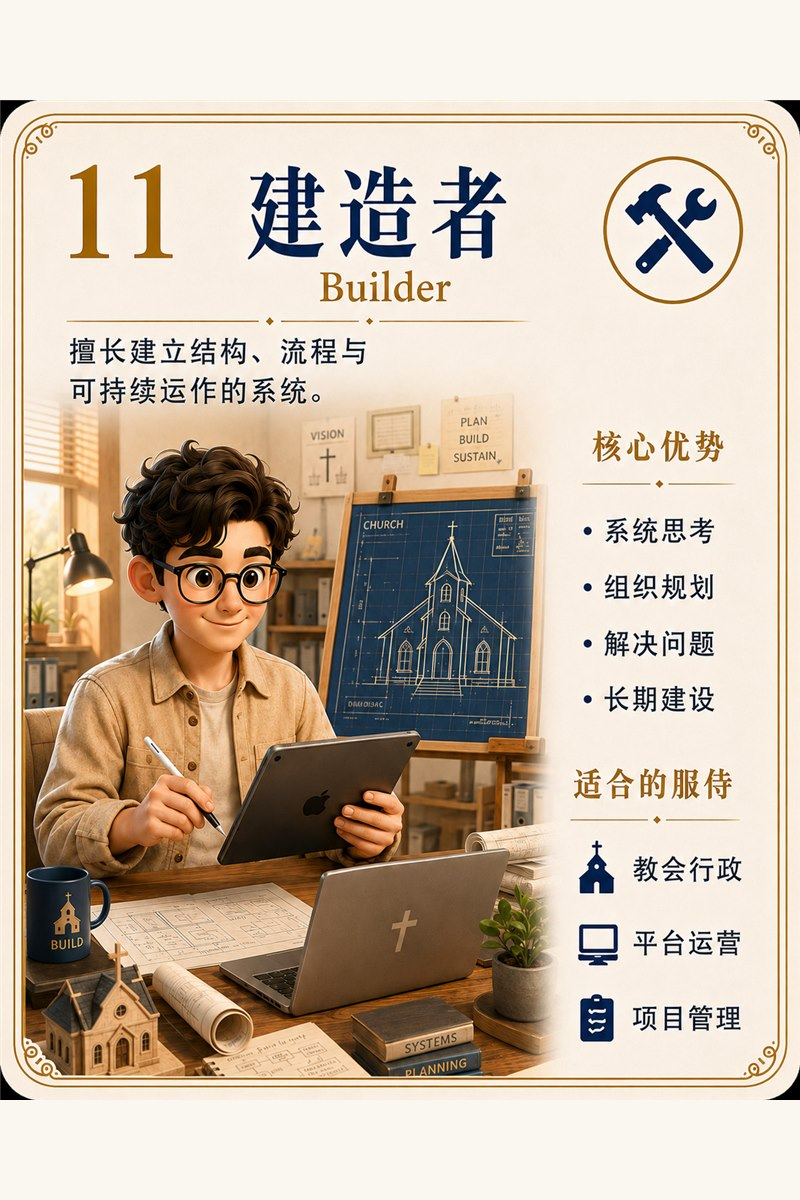
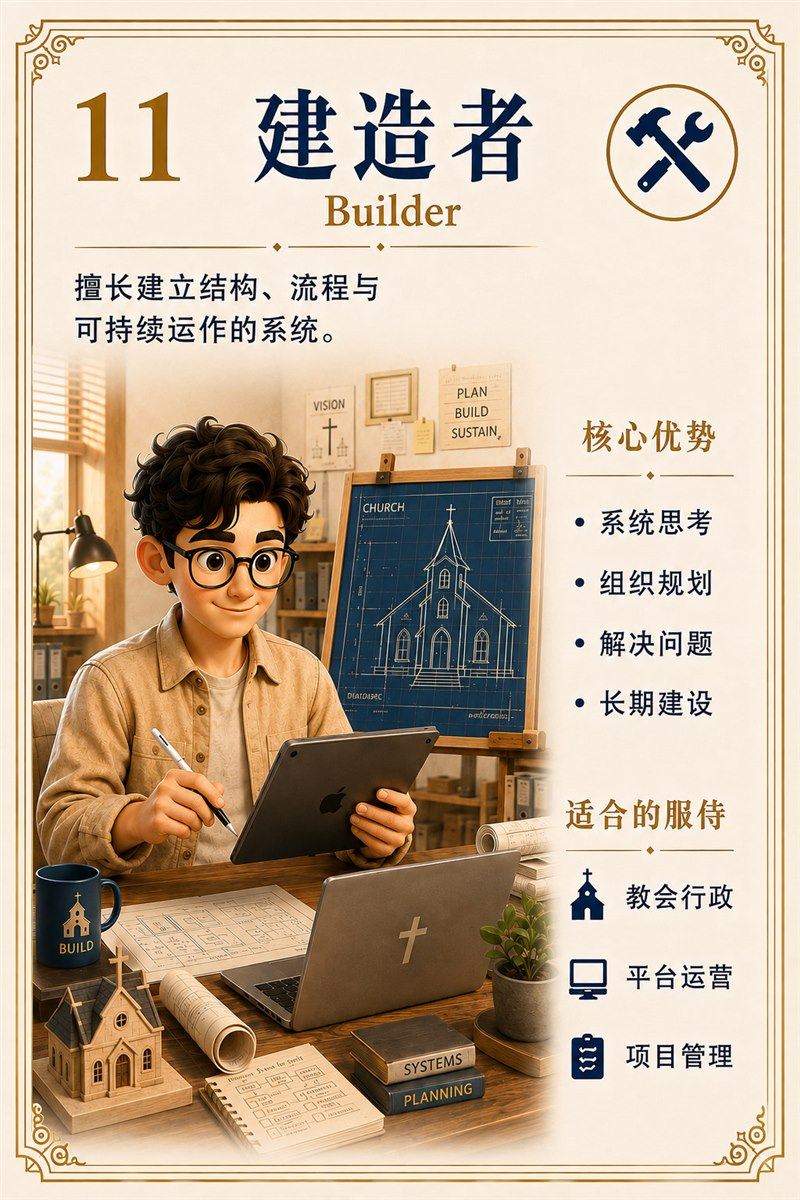
archetypes 10/11/12 换为 2:3 版本（与 App 同步）

diff --git a/index.html b/index.html
@@ -83,9 +83,9 @@
 })();
 </script>
 <script>(function(){var l=document.createElement("link");l.rel="preload";l.as="image";l.href="assets/img/hero-"+(document.documentElement.dataset.theme==="night"?"night":"day")+".webp";document.head.appendChild(l);})();</script>
-<script src="assets/js/supabase-config.js?v=202608311541"></script>
+<script src="assets/js/supabase-config.js?v=202608311556"></script>
 <link rel="preconnect" href="https://fonts.googleapis.com"><link rel="preconnect" href="https://fonts.gstatic.com" crossorigin><link href="https://fonts.googleapis.com/css2?family=Noto+Serif+SC:wght@600;700;900&display=swap" rel="stylesheet">
-<link rel="stylesheet" href="assets/css/main.css?v=202608311541">
+<link rel="stylesheet" href="assets/css/main.css?v=202608311556">
 </head>
 <body>
 <a class="skip-link" href="#main" data-i18n="actions.skip">跳到主要内容</a>
@@ -1231,6 +1231,6 @@
 </div>
 
 <div class="toast" id="toast" role="status" aria-live="polite"></div>
-<script src="assets/js/main.js?v=202608311541"></script>
+<script src="assets/js/main.js?v=202608311556"></script>
 </body>
 </html>

diff --git a/giving.html b/giving.html
@@ -6,9 +6,9 @@
 <meta name="robots" content="noindex,nofollow">
 <title>与我们同工 | AMAS</title>
 <link rel="icon" href="assets/img/favicon.png">
-<script src="assets/js/supabase-config.js?v=202608311541"></script>
+<script src="assets/js/supabase-config.js?v=202608311556"></script>
 <link rel="preconnect" href="https://fonts.googleapis.com"><link rel="preconnect" href="https://fonts.gstatic.com" crossorigin><link href="https://fonts.googleapis.com/css2?family=Noto+Serif+SC:wght@600;700;900&display=swap" rel="stylesheet">
-<link rel="stylesheet" href="assets/css/main.css?v=202608311541">
+<link rel="stylesheet" href="assets/css/main.css?v=202608311556">
 <style>
   body{background:var(--bg,#f7f1e6)}
   .gv-wrap{max-width:760px;margin:0 auto;padding:34px 18px 70px}

diff --git a/admin.html b/admin.html
@@ -6,7 +6,7 @@
 <meta name="robots" content="noindex,nofollow">
 <title>AMAS 招生后台</title>
 <link rel="icon" href="assets/img/favicon.png">
-<script src="assets/js/supabase-config.js?v=202608311541"></script>
+<script src="assets/js/supabase-config.js?v=202608311556"></script>
 <script src="https://cdn.jsdelivr.net/npm/@supabase/supabase-js@2/dist/umd/supabase.min.js"></script>
 <style>
 *{box-sizing:border-box}

diff --git a/login.html b/login.html
@@ -287,7 +287,7 @@ body::before{
 </div>
 <div class="toast" id="toast"></div>
 
-<script src="assets/js/supabase-config.js?v=202608311541"></script>
+<script src="assets/js/supabase-config.js?v=202608311556"></script>
 <script>
 const $ = (s)=>document.querySelector(s);
 const $$ = (s)=>[...document.querySelectorAll(s)];
